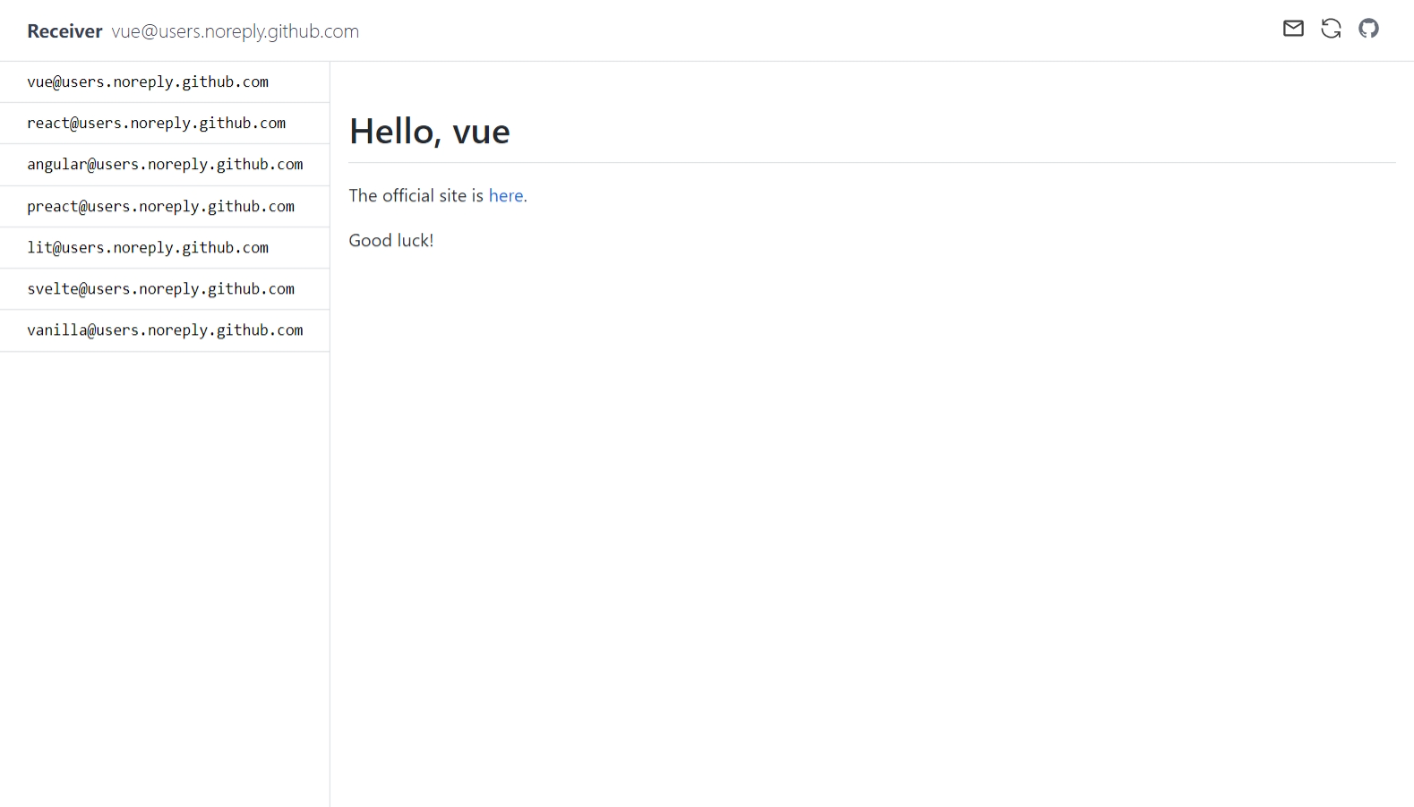
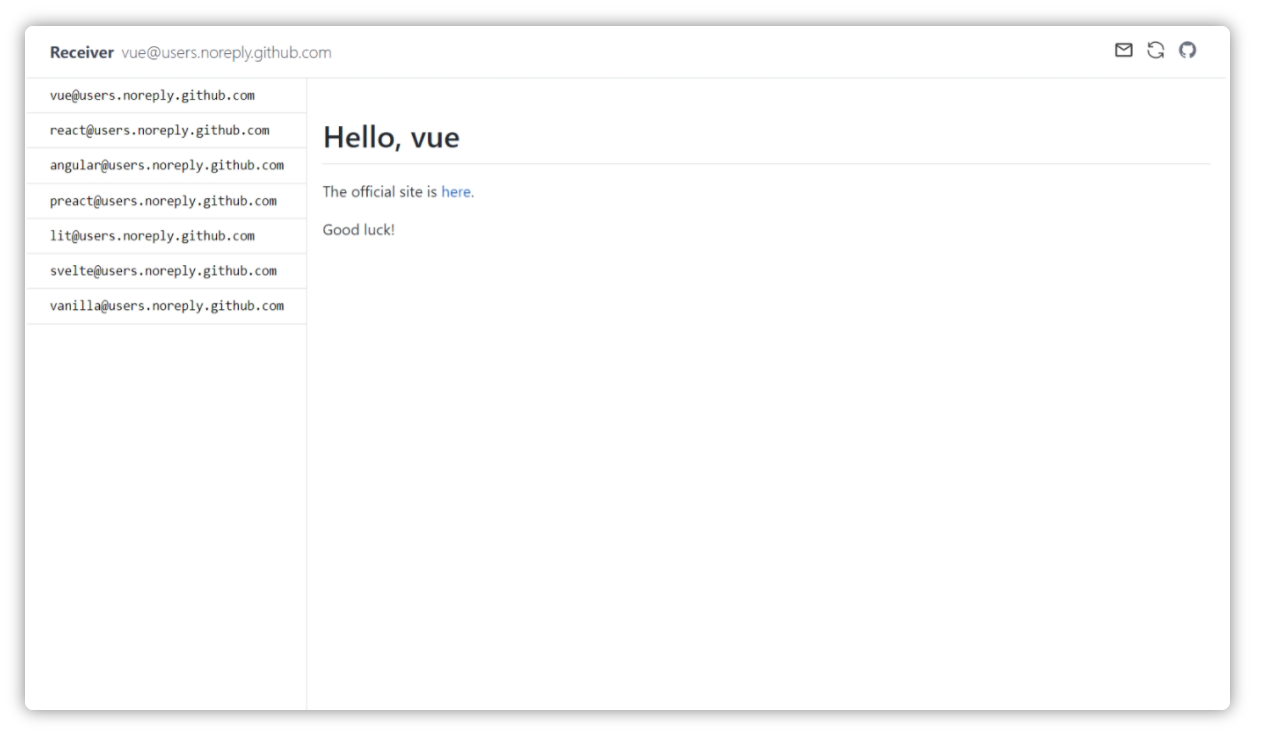
chore: readme

Changed region(s): [[0.0, 0.0, 0.9881, 0.9959], [0.247, 0.1245, 0.3705, 0.3424]]

diff --git a/README.md b/README.md
@@ -4,7 +4,7 @@
 
 Send emails rendered by Vite and Markdown-It automatically.
 
-<img src="./screenshot.png" alt="screenshot" style="border-radius: 0.5rem; box-shadow: 0 0 1rem rgba(0,0,0,0.5); zoom: 80%;">
+<img src="./screenshot.png" alt="screenshot">
 
 ## Installation
 
